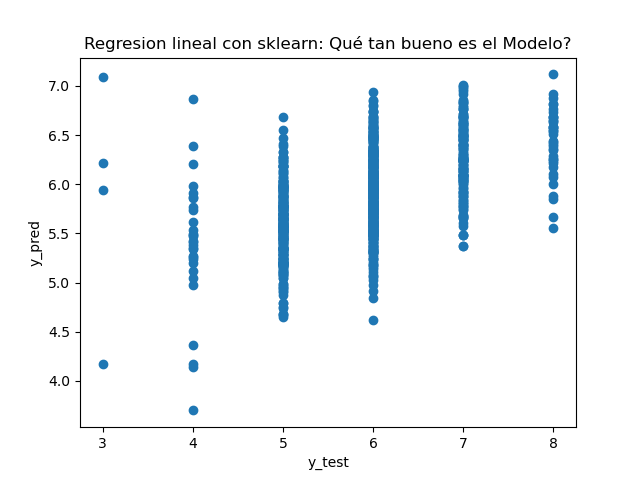
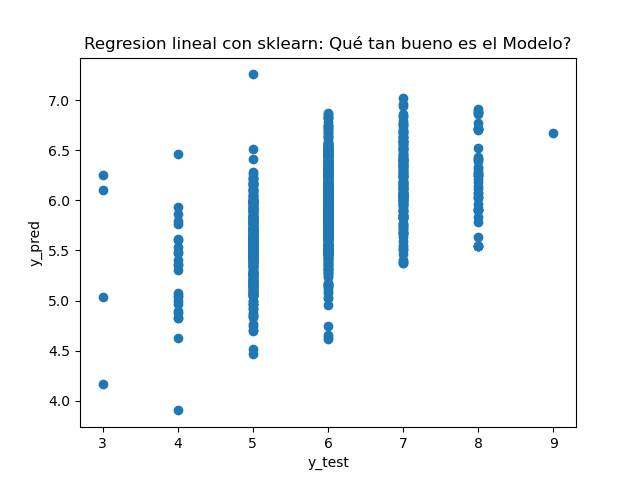
act

diff --git a/code/Ejemplo_modelo_predictivo.py b/code/Ejemplo_modelo_predictivo.py
@@ -1,0 +1,143 @@
+import numpy as np
+import pandas as pd
+import matplotlib.pyplot as plt
+from sklearn.metrics import mean_squared_error
+from sklearn.linear_model import LinearRegression
+from sklearn.model_selection import train_test_split
+
+
+# PREPARACIÓN DE DATOS
+
+# CARGUE
+print("DATOS INICIALES:\n")
+
+df = pd.read_csv('data\downloaded\Real estate.csv', sep=",")
+print(f"Dataframe:\n {df}")
+print(f"Dim Dataframe = {df.shape}")  # me dice las dimensiones del dataframe
+
+# LIMPIEZA
+
+df = df.dropna() # Elimino datos incompletos. Limpio datos
+print(f"Dim Dataframe limpio = {df.shape}")
+
+# TRANSFORMACIÓN
+
+mnp = df.to_numpy()  # me convierte el df en una matriz de numpy (mnp)
+print(mnp)
+print(mnp.shape)  # me dice las dimensiones de la mnp
+
+# Extraemos Y
+i = 7 # columna que queremos obtener (Precio de las casas)
+y = np.array([mnp[:,i]]) # Extrae la columna i y la guarda en Y
+#print(y)
+#print(y.shape)
+
+y = np.transpose(y) # Transpongo Y porque quedó como fila y necesito columna
+#print(y)
+#print(y.shape)
+
+# Extraemos X
+ # columna que queremos obtener
+i = 2 # Antiguedad de la casa
+#i = 3 # Distancia a la estación del metro
+#i = 4 # Número de tiendas cercanas
+
+x = np.array([mnp[:,i]]) # Extrae la columna i y la guarda en X
+#print(x)
+#print(x.shape)
+
+x = np.transpose(x) # Transpongo Y porque quedó como fila y necesito columna
+#print(x)
+#print(x.shape)
+
+print(f"Vector X:\n {x}")
+print(f"Dim Vector X = {x.shape}")
+print(f"Vector Y:\n {y}")
+print(f"Dim Vector Y = {y.shape}")
+
+# Separación del dataframe en conjuntos de entrenamiento y evaluación
+x_train, x_test, y_train, y_test = train_test_split(x, y, test_size=0.2)
+
+print("\nConjuntos preparados:\n")
+print(f"Dim x_train = {x_train.shape}")
+print(f"Dim y_train = {y_train.shape}")
+print(f"Dim x_test = {x_test.shape}")
+print(f"Dim y_test = {y_test.shape}")
+
+
+# MODELO
+
+model = LinearRegression()
+model.fit(x_train, y_train)     # Este método se utiliza para entrenar los modelos con los datos de entrenamiento. 
+                                # Es decir, se utiliza para obtener los parámetros del modelo con los que se 
+                                # minimiza el error de predicción en los datos de entrenamiento. Debido a que se 
+                                # emplea para entrenar el modelo fit() se suele usar sobre los datos de entrenamiento.
+
+y_pred = model.predict(x_test)      # Este método se utiliza para obtener las predicciones de un modelo sobre 
+                                    # un conjunto de datos de entrada desconocidos. Es decir, una vez entrenado el modelo, 
+                                    # se puede utilizar el método predict() para saber los valores o etiquetas que asigna el 
+                                    # modelo a una conjunto de datos. Dada la finalidad de este método, suele usarse 
+                                    # con los datos de test o cualquier conjunto desconocido.
+
+print(f"Dim Vector y_pred = {y_pred.shape}")
+
+
+# EVALUACIÓN DEL MODELO
+
+print("\nEVALUACIÓN DEL MODELO DE REGRESIÓN LINEAL:\n")
+
+# Calculo del error RMSE
+rmse = np.sqrt(np.mean((y_test - y_pred)**2))  # y_test - y_pred es el residual
+
+print(f"Mejor Coeficiente: {model.coef_}")
+print(f'RMSE: {rmse:.4f}')
+
+
+# VISUALIZACIÓN
+
+# Se visualizan datos de entrenamiento
+plt.scatter(x_train, y_train) # Crear una nueva grafica de x_train vs y_train
+plt.xlabel('x_train')
+plt.ylabel('y_train')
+plt.title("Datos de Entrenamiento")
+#plt.savefig('plots\ x_train vs y_train.png')
+plt.show()
+
+# Se visualizan datos de evaluación
+plt.scatter(x_test, y_pred) # Crear una nueva grafica de x_test vs y_pred
+plt.plot(x_test, y_pred, color='red') 
+plt.xlabel('x_test')
+plt.ylabel('y_pred')
+plt.title("Datos de Evaluación")
+#plt.savefig('plots\ x_test vs y_pred.png')
+plt.show()
+
+# Se visualiza que tan bueno es el modelo
+plt.scatter(y_test, y_pred) # Crear una nueva grafica de y_test vs y_pred
+plt.xlabel('y_test')
+plt.ylabel('y_pred')
+plt.title("Regresion lineal: Qué tan bueno es el Modelo?")
+#plt.savefig('plots\ y_test vs y_pred.png')
+plt.show()
+
+# Se visualiza el error de los datos
+plt.scatter(y_test, (y_pred - y_test))  # y_test - y_pred es el residual
+plt.xlabel('y_test')
+plt.ylabel('y_pred')
+plt.title("Regresion lineal: Cuál es el error del Modelo?")
+#plt.savefig('plots\ error.png')
+plt.show()
+
+
+# PREDECIR DATOS CON EL MODELO
+
+entrada = [[20]]
+resultado = model.predict(entrada)
+
+print(f"Entrada: {entrada}")
+print(f'Resultado de la predicción: {resultado}')
+
+
+"""
+"""
+
